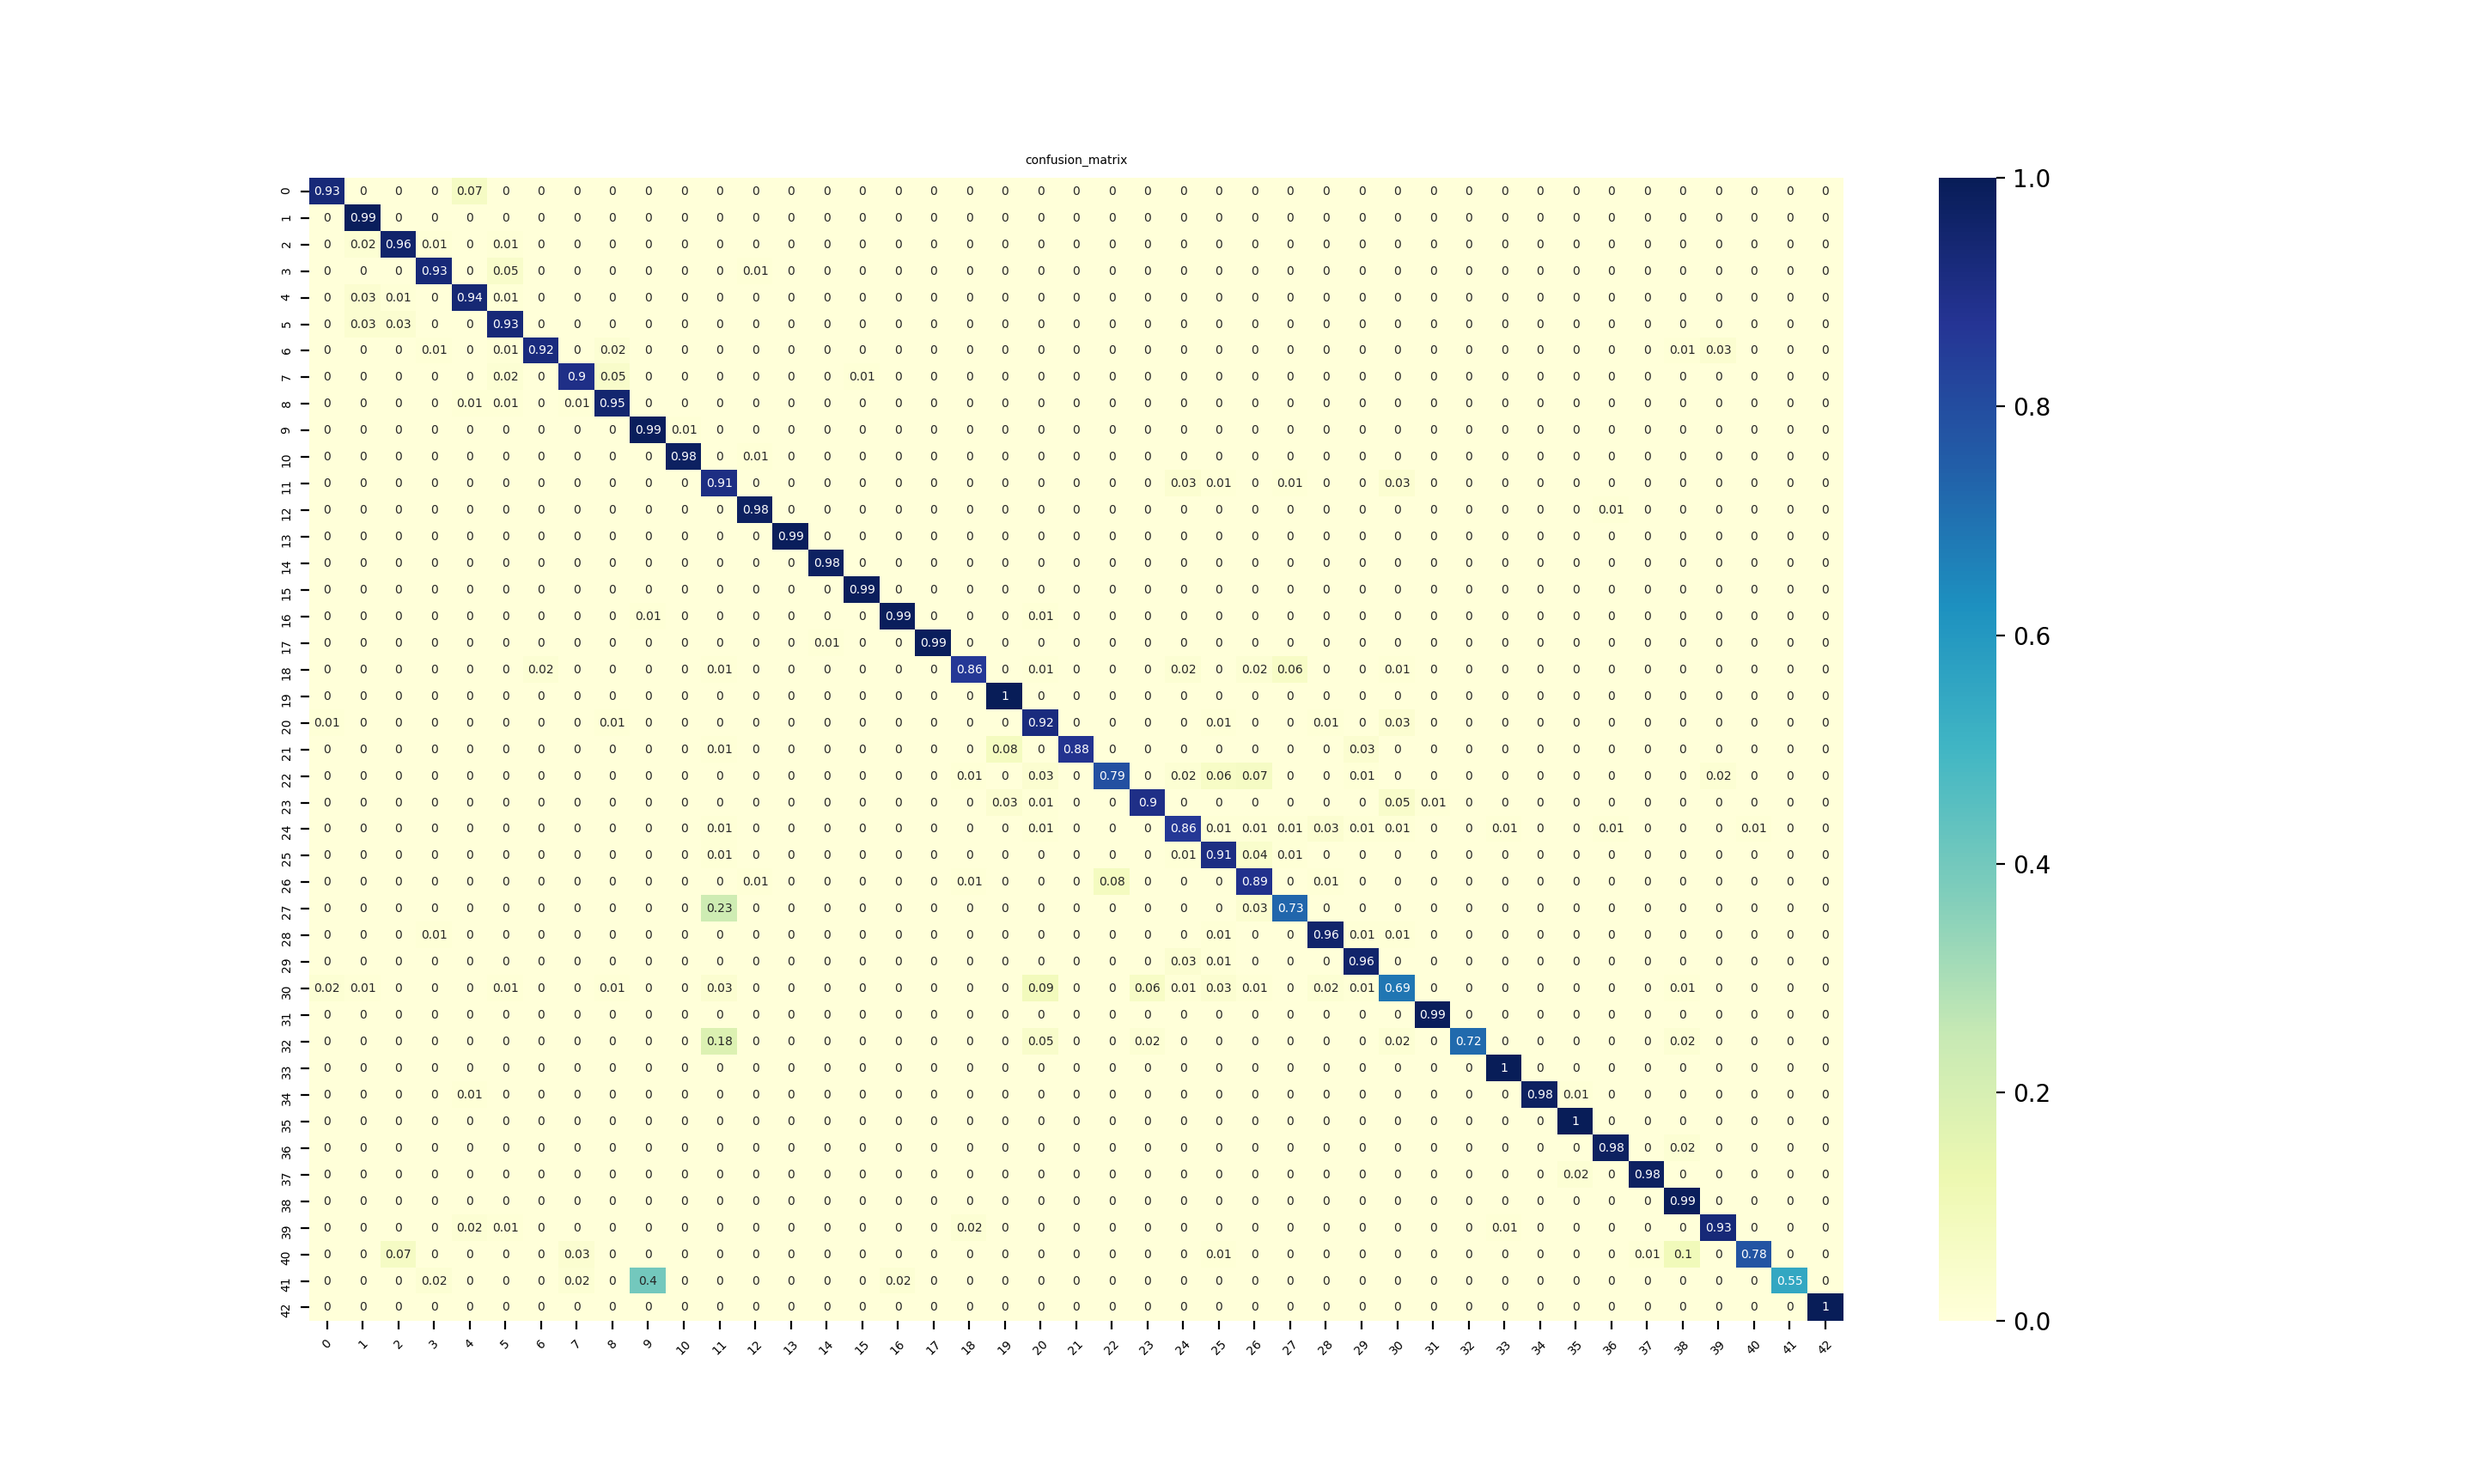
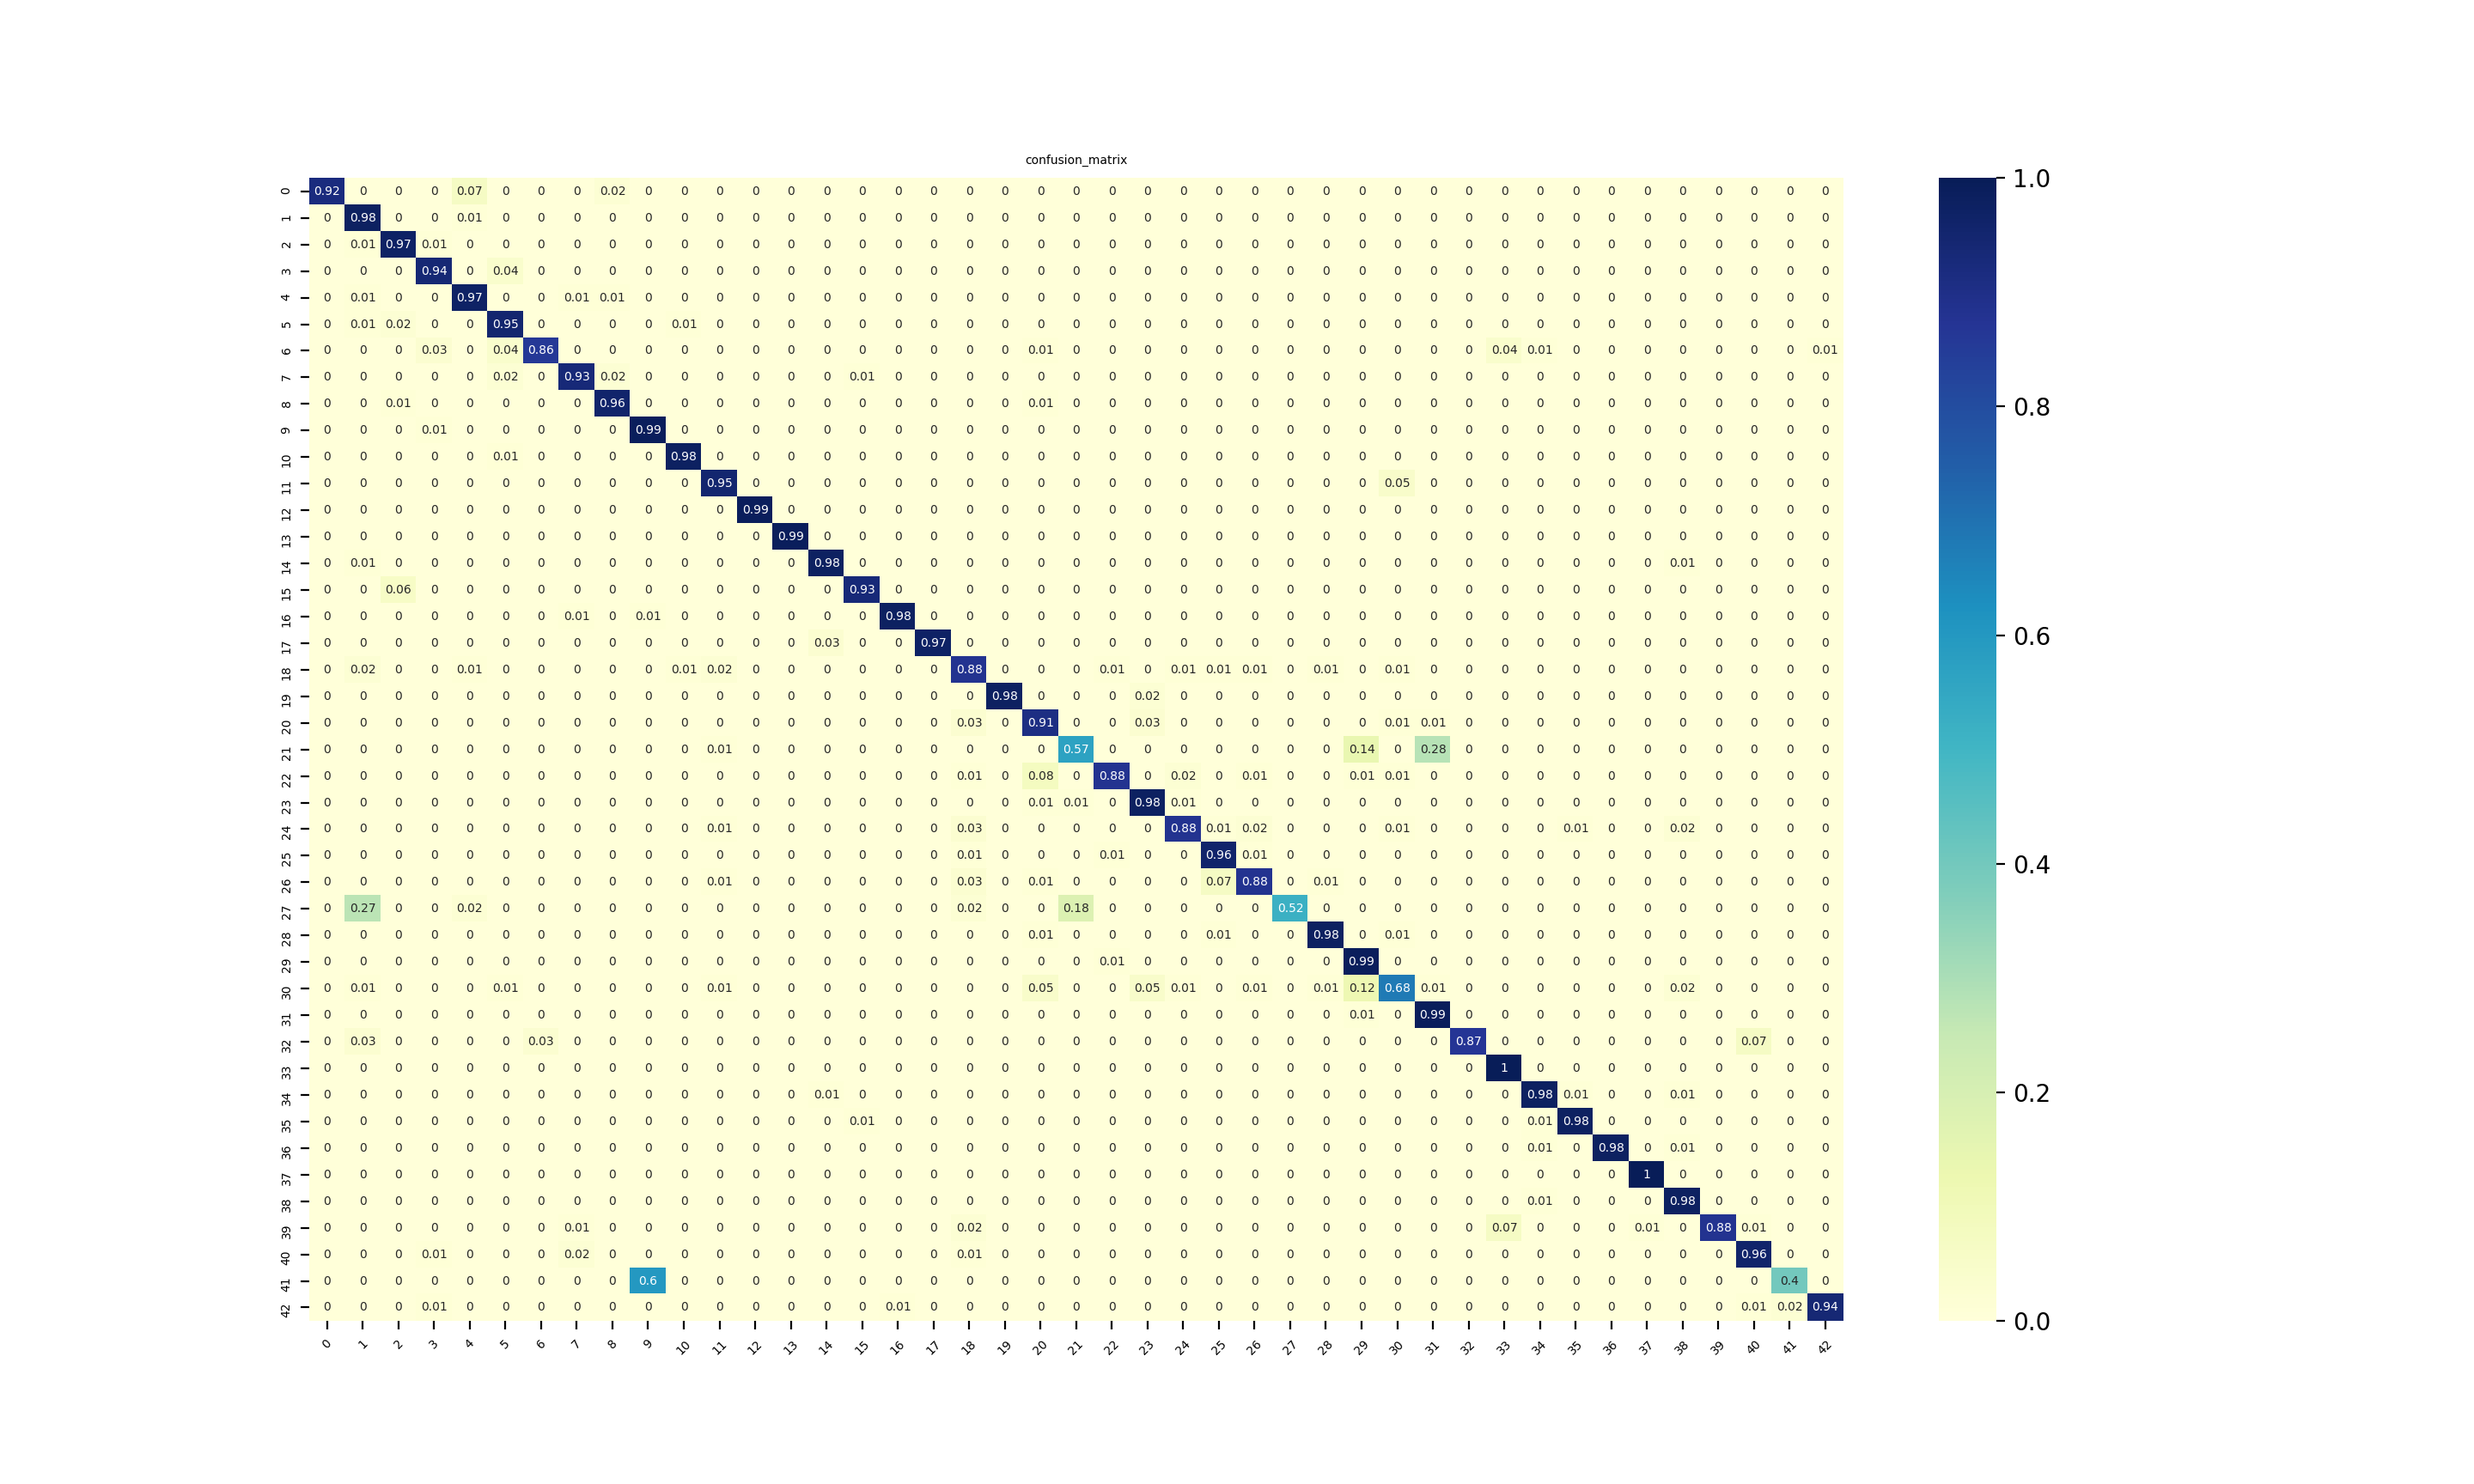
Add: Metric Plot

diff --git a/src/traffic_sign_classifier/params.py b/src/traffic_sign_classifier/params.py
@@ -6,8 +6,8 @@ params = {
     "poly_decay_schedular": {
         "learning_rate": 0.01,
         "learning_power": 0.9,
-        "learning_rate_min": 0.0001,
-        "end_learning_rate": 0
+        "learning_rate_min": 0.00001,
+        "end_learning_rate": 0.000001
     },
     "poly_cosine_schedular": {
         "learning_rate": 0.01,
@@ -15,7 +15,7 @@ params = {
         "end_learning_rate": 0.00001
     },
     "optimizer_learning_momentum": 0.9,
-    "epochs": 300,
+    "epochs": 400,
     "train_steps": int(34799/256),
     "eval_steps": 200,
     "eval_data_cnt": 17,

diff --git a/src/traffic_sign_classifier/train.py b/src/traffic_sign_classifier/train.py
@@ -183,7 +183,8 @@ if __name__ == "__main__":
     model_fn_ = LeNet(num_classes=43)
     loss_fn_ = loss()
 
-    lr_schedular_fn = ops.poly_cosine_schedular(params, train_summary_writer)
+    # lr_schedular_fn = ops.poly_cosine_schedular(params, train_summary_writer)
+    lr_schedular_fn = ops.poly_decay_schedular(params, train_summary_writer)
     eval_callback = eval(eval_dataset_, model_fn_, loss_fn_, eval_summary_writer, params)
     train_eval(train_dataset_, model_fn_, loss_fn_, lr_schedular_fn, eval_callback, train_summary_writer, params)
 

diff --git a/src/traffic_sign_classifier/test.py b/src/traffic_sign_classifier/test.py
@@ -3,7 +3,6 @@ import numpy as np
 import tensorflow as tf
 from typing import Callable, Dict
 from sklearn import metrics
-from sklearn.metrics import roc_curve
 
 from src import commons
 from src.traffic_sign_classifier import ops

diff --git a/src/traffic_sign_classifier/README.md b/src/traffic_sign_classifier/README.md
@@ -109,23 +109,27 @@ The Training Process is very modular and broken into 5 major parts.
         - *Optimizer*: Since we use a relatively large batch size of 256 a good optimizer to use would be Adagrad, 
         however in our case we choose Adam Optimizer since Adam is said to work bet in many scenarios.
         ![Loss](https://github.com/Sardhendu/self-driving-vehicle/blob/master/src/traffic_sign_classifier/images/loss.png) 
-        - *Learning Rate Scheduler*: We use a variation of cosine annealing and polynomial decay combined. The idea is 
+        - *Learning Rate Scheduler*: We test with polynomial decay and with a variation of cosine annealing and 
+        polynomial decay combined. The idea is to bump up the learning rate in the 1st few thousand steps so that model learns the most from the dataset and
+         then decay using cosine annealing. Both the decay gives relative performance, for our final model we choose 
+         polynomial decay. Below is the plot showcasing that.
         ![Learningrate-Schedular](https://github.com/Sardhendu/self-driving-vehicle/blob/master/src/traffic_sign_classifier/images/learning_rate.png)
-        to bump up the learning rate in the 1st few thousand steps so that model learns the most from the dataset and
-         then decay using cosine annealing. Below is a plot of the learning rate decay function  
+         
          - *Weight Decay*: We use weight decay to control overfiting. Additionally, augmentation in the dataset also 
          prevents the model to overfit.
 
 ## Eval/Test Metric:
-   * Eval Accuracy: 95.4%
-   * Test Accuracy: 94.7%
+   * Eval Accuracy: 96.6%
+   * Test Accuracy: 95.2%
    * We observe that we have a high class imbalance, hence accuracy may not be a good measure of metric, rather we 
    can use precision recall. Below are the plots for accuracy, precision and recall
    
+   * Validation Metric:
 ![Accuracy](https://github.com/Sardhendu/self-driving-vehicle/blob/master/src/traffic_sign_classifier/images/accuracy.png)
 
 ![Precision-Per-Class](https://github.com/Sardhendu/self-driving-vehicle/blob/master/src/traffic_sign_classifier/images/precision.png)
 
 ![Recall-Per-Class](https://github.com/Sardhendu/self-driving-vehicle/blob/master/src/traffic_sign_classifier/images/recall.png)
 
+   * Test Confidence Matrix: 
 ![Confidence-Matrix](https://github.com/Sardhendu/self-driving-vehicle/blob/master/src/traffic_sign_classifier/images/confidence-matrix.png)
